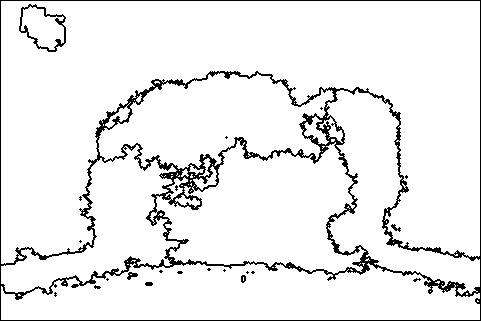
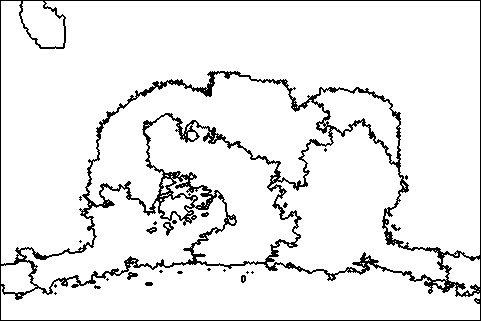
it does not throw an exception. needs crossover and mutation

diff --git a/moea/src/main/java/moea/GA.java b/moea/src/main/java/moea/GA.java
@@ -1,8 +1,9 @@
 package moea;
 
-import java.lang.reflect.Array;
 import java.util.ArrayList;
+import java.util.Collections;
 import java.util.List;
+import java.util.Random;
 import java.util.concurrent.*;
 
 public class GA {
@@ -25,6 +26,59 @@ public class GA {
 
         System.out.println("populationSize: " + MSTs.size());
         System.out.println("Score bitch: " + population.get(0).getFitness());
+
+        System.out.println("Fåkk åff");
+
+        // we have found population, but not sorted!
+        population = fastNonDominatedSort(population);
+
+        DataGenerator dg = new DataGenerator();
+        Chromosome toBePrinted = population.get(0);
+        toBePrinted.findEdgePixels();
+        dg.drawSegments(toBePrinted.segments);
+        dg.drawTrace(toBePrinted, true);
+        dg.drawTrace(toBePrinted, false);
+
+        ArrayList<Chromosome> offsprings = new ArrayList<>();
+        int i = 0;
+        while(i < population.size()-3){
+            Chromosome pi = population.get(i);
+            Chromosome pj = population.get(i+1);
+            Chromosome parent1 = nichedParetoBinaryTournamentSelection(pi,pj,population,offsprings);
+
+            i = i + 2;
+            pi = population.get(i);
+            pj = population.get(i+1);
+            Chromosome parent2 = nichedParetoBinaryTournamentSelection(pi,pj,population,offsprings);
+
+            // perform crossover with parent 1 and parent 2 and create offspring c1 and c2.
+            // perform mutation on c1 and c2.
+            // offsprings.add(c1);
+            // offsprings.add(c2);
+
+            i++;
+            if(i < population.size()-3){
+                // just continue
+            }
+
+            else if(offsprings.size() == population.size() / 2){
+                Collections.shuffle(population);
+                i = 1;
+                // then continue
+            }
+            else{
+                break;
+            }
+        }
+
+        // Then Combine Parents and offsprings --> R
+        // Sort R based on fast-non-dominating-sort
+        System.out.println("Let ME in, or out");
+
+
+
+
+
     }
 
 
@@ -101,10 +155,199 @@ public class GA {
         while(! pool.isTerminated()){ }
     }
 
+    private ArrayList<Chromosome> fastNonDominatedSort(ArrayList<Chromosome> population){
+//        ArrayList<Chromosome> F1 = new ArrayList<>(); // this is the first pareto front.
+        ArrayList<Chromosome> Fi = new ArrayList<>(); // this should hold all pareto fronts.
+
+
+        // find the first front line
+        for(Chromosome ch : population){
+            ch.np = 0;
+            ch.sp.clear();
+
+            for(Chromosome q : population){
+                if(q.equals(ch)){
+                    continue;
+                }
+
+                if(dominates(ch,q)){
+                    ch.sp.add(q);
+                }
+                else if(dominates(q,ch)){
+                    ch.np += 1;
+                }
+            }
+            if (ch.np == 0){
+                ch.rank = 1;
+                Fi.add(ch);
+            }
+        }
+        // now we are done with finding the first front line
+
+        int i = 1;
+        while(!Fi.get(i-1).sp.isEmpty()){ // vi vil ha size hær kansje, siden flere kan få sp = ø ??
+            Chromosome currentFront = Fi.get(i-1);
+            ArrayList<Chromosome>  newFront = new ArrayList<>();
+
+//            for(Chromosome ch : currentFront){
+            for(Chromosome q : currentFront.sp){
+                q.np -= 1;
+                if(q.np == 0){
+                    q.rank = i + 1;
+                    Fi.add(q);
+                }
+            }
+//            }
+            i++;
+
+        }
+        System.out.println("smook smook smook");
+        return Fi;
+    }
+
+    /***
+     A solution x(1) is said to dominate the other solution x(2),
+     if both the following conditions are true:
+     1. The solution x(1) is no worse than x(2) in all objectives.
+     2. The solution x(1) is strictly better than x(2) in at least one objective.
+     * @param ch: Chromosome :
+     * @param q: Chromosme :
+     * @return : boolean : True if ch dominates q
+     */
+    private boolean dominates(Chromosome ch, Chromosome q) {
+        boolean dominates = true;
+
+        // condition 1:
+        if (! (ch.edgeValue <= q.edgeValue && ch.overallDeviation <= q.overallDeviation)) {
+            dominates = false;
+        }
+
+        // condition 2:
+        if (! (ch.edgeValue < q.edgeValue || ch.overallDeviation < q.overallDeviation)){
+            dominates = false;
+        }
+
+        return dominates;
+    }
+
+    private Chromosome nichedParetoBinaryTournamentSelection(Chromosome pi, Chromosome pj, ArrayList<Chromosome> population, ArrayList<Chromosome> offsprings){
+        Random r = new Random();
+        // Step 3: Pick randomly a compariosn set of individuals fro mthe population.
+        // Pi and Pj are compared by first picking a sub-pop T of size Tdom (<<N) solutions from the population
+        int TdomSize = 3; // remember to make this dynamic.
+        Chromosome[] comparisonSet = new Chromosome[TdomSize];
+        for (int c = 0; c < TdomSize; c++) {
+            comparisonSet[c] = population.get(r.nextInt(population.size()));
+        }
+
+        // Step 4: Compare each candidate  against each individual in the comparison set for domination using the conditions for domination.
+        int piDominates = 0;
+        int piIsdominated = 0;
+        int pjDominates = 0;
+        int pjIsdominated = 0;
+        for (Chromosome q : comparisonSet) {
+            if (dominates(pi, q)) {
+                piDominates++;
+            } else if (dominates(q, pi)) {
+                piIsdominated++;
+            }
+
+            if (dominates(pj, q)) {
+                pjDominates++;
+            } else if (dominates(q, pj)) {
+                pjIsdominated++;
+            }
+        }
+
+        // step 5: if one candidate is dominated by the comparison set while the other is not, then select the later for reproduction and go to Step 7, else proceed to Step 6.
+        Chromosome selected = null;
+        if (piIsdominated == 0 && pjIsdominated > 0) {
+            selected = pi;
+        } else if (pjIsdominated == 0 && piIsdominated > 0) {
+            selected = pj;
+        }
+
+
+        // Step 6: If neither or both candidates are dominated by the comparison set, then use sharing to choose the winner.
+        if (selected == null) {
+            // TODO: step 6 : implement sharing
+            selected = sharing(pi,pj, offsprings);
+        }
+        return selected;
+    }
+
+    private Chromosome sharing(Chromosome i, Chromosome j, ArrayList<Chromosome> q){
+        // page 218-220 : https://tinyurl.com/yazoes7z
+        if(q.size() < 2){
+            double prob = new Random().nextDouble();
+            if(prob<0.5){
+                return i;
+            }
+            else{
+                return j;
+            }
+        }
+
+        double nci = 0;
+        double ncj = 0;
+
+        double shareDistance = 10; // TODO: sjekke om denne er fryktelig lav eller høy nå! sjekk om res1 og res2
+        double maxEdge = Double.MIN_VALUE;
+        double maxOD = Double.MIN_VALUE;
+        double minEdge = Double.MAX_VALUE;
+        double minOD = Double.MAX_VALUE;
+
+        for(Chromosome k : q){
+            if(k.edgeValue > maxEdge){
+                maxEdge = k.edgeValue;
+            }
+            if(k.edgeValue < minEdge){
+                minEdge = k.edgeValue;
+            }
+            if(k.overallDeviation > maxOD){
+                maxOD = k.overallDeviation;
+            }
+            if(k.overallDeviation < minOD){
+                minOD = k.overallDeviation;
+            }
+        }
+
+
+        double obji1 = 0;
+        double obji2 = 0;
+
+        double objj1 = 0;
+        double objj2 = 0;
+        for(Chromosome k : q){
+            obji1 += Math.pow( (i.edgeValue - k.edgeValue) / (maxEdge - minEdge), 2);
+            obji2 += Math.pow( (i.overallDeviation - k.overallDeviation) / (maxOD - minOD), 2);
+            double res1 = Math.sqrt((obji1 + obji2));
+
+            objj1 += Math.pow( (j.edgeValue - k.edgeValue) / (maxEdge - minEdge), 2);
+            objj2 += Math.pow( (j.overallDeviation - k.overallDeviation) / (maxOD - minOD), 2);
+            double res2 = Math.sqrt((objj1 + objj2));
+
+            if(res1 < shareDistance){
+                nci++;
+            }
+            else if(res2 < shareDistance){
+                ncj++;
+            }
+        }
+
+        if(nci <= ncj){
+            return i;
+        }
+        else {
+            return j;
+        }
+    }
+
+
 
     public static void main(String[] args) {
         GA g = new GA();
-        g.run(1, 1);
+        g.run(1, 4);
     }
 
 }

diff --git a/moea/src/main/java/moea/Chromosome.java b/moea/src/main/java/moea/Chromosome.java
@@ -22,6 +22,14 @@ public class Chromosome {
     double edgeValue = 0;
     double fitness; // the lower the better!
 
+    ///////// NSGA-II shit
+    //
+    int rank;
+    ArrayList<Chromosome> sp = new ArrayList<>();  // a set of solutions that the solution 'ch' dominates.
+    int np = 0;// np = domination count. How many CH is dominated by
+    //
+    /////////
+
     double[] weights = {0.5,0.5};
 
     public Chromosome(MST mst, int numberOfPixels, int minSegments, double[] weights){
@@ -43,11 +51,11 @@ public class Chromosome {
         this.fitness = calculateFitness();
 
         // TODO: move out of this constructor into the GA
-        findEdgePixels();
-        DataGenerator dg = new DataGenerator();
-        dg.drawSegments(this.segments);
-        dg.drawTrace(this, true);
-        dg.drawTrace(this, false);
+//        findEdgePixels();
+//        DataGenerator dg = new DataGenerator();
+//        dg.drawSegments(this.segments);
+//        dg.drawTrace(this, true);
+//        dg.drawTrace(this, false);
 
 
 
